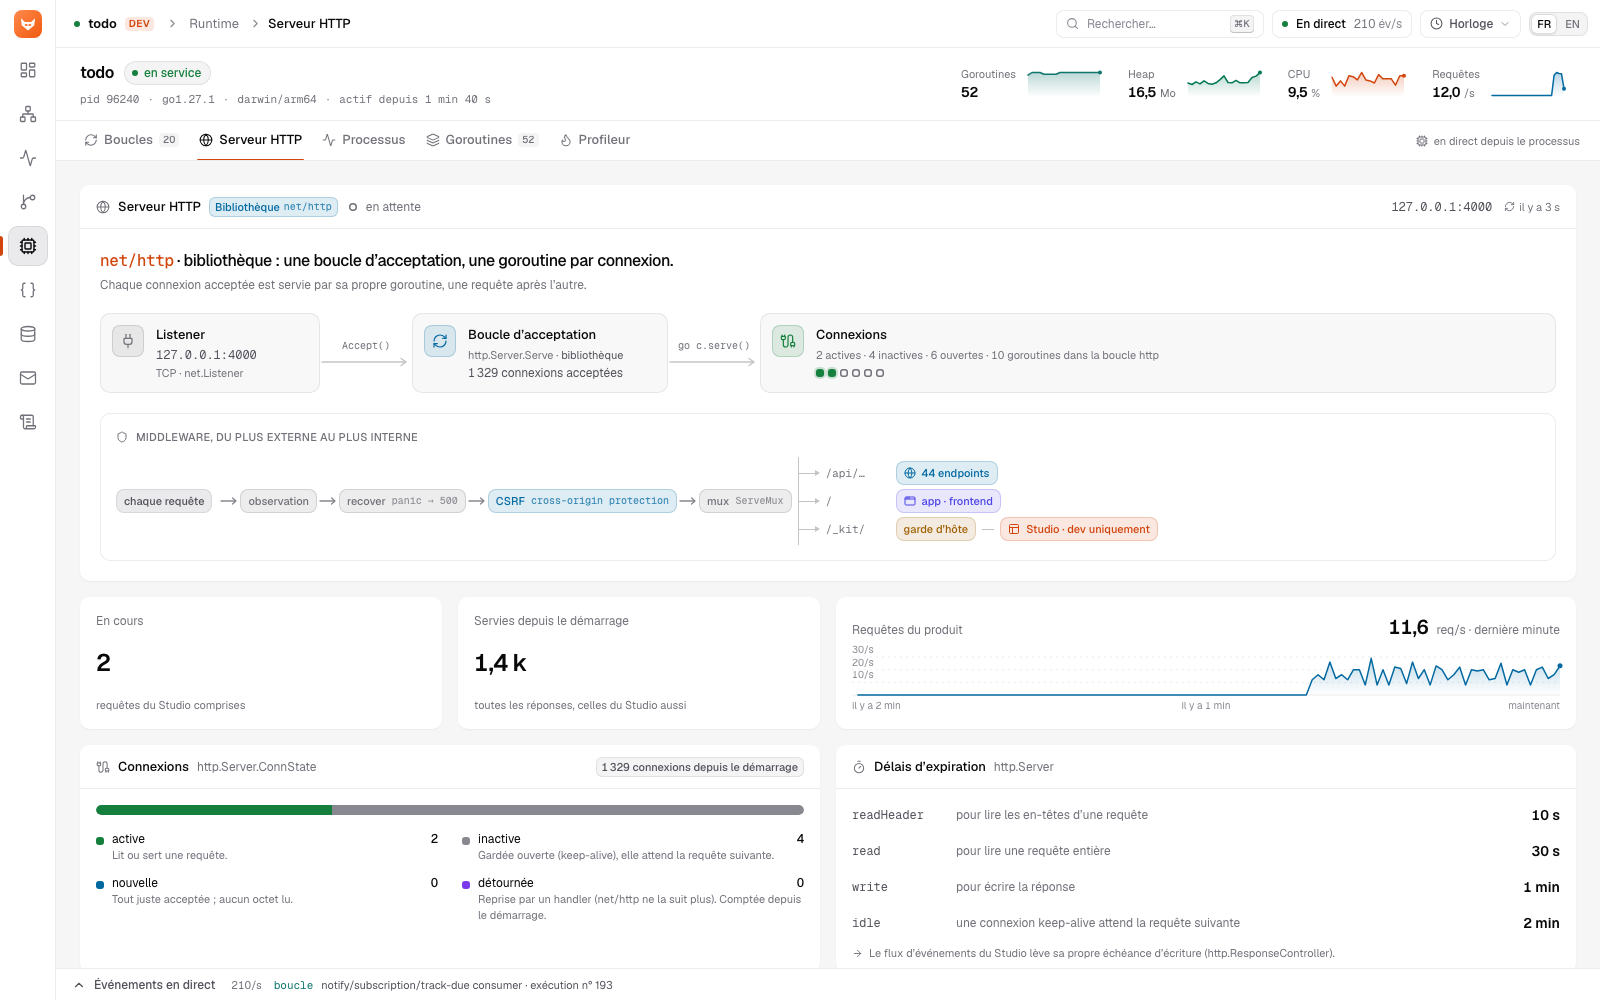
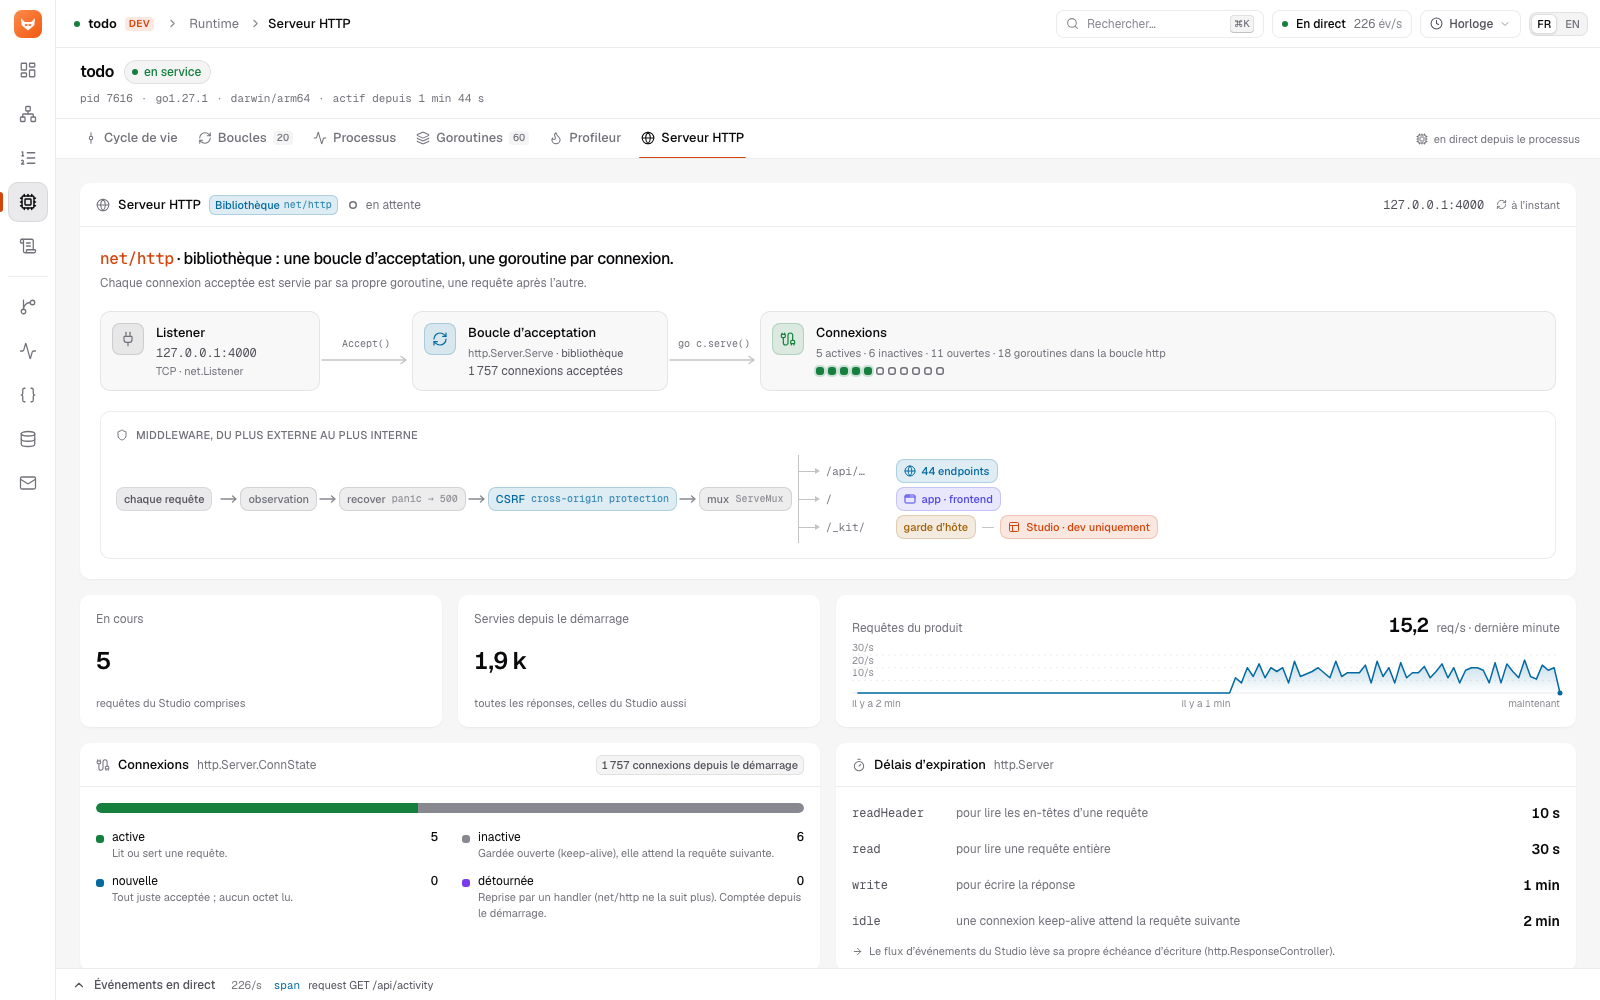
docs: the Studio as it is now
Every Studio screenshot retaken on the running app: the overview by
connectors, the containers that lead to their views, an entry's sequence
drawn from its code, the daemon's lifecycle in Runtime, the mailbox with
real mails.

diff --git a/README.md b/README.md
@@ -39,22 +39,23 @@ travels on a topic.
 
 In dev, the product serves its own diagram at `/_kit/` — the kit Studio, live:
 its context, its containers, its services and their building blocks, the code
-of each, every request as a trace, the workflows and their populations, the
-daemon's loops, and the mails it sent.
+of each, what every entry point does step by step, every request as a trace,
+the workflows and their populations, the daemon — its lifecycle, its loops,
+its HTTP server — and the mails it sent.
 
-| **Context** — who uses the product, what it talks to (C4 level 1) | **Infrastructure** — its containers, and inside the process (C4 level 2) |
+| **Overview** — the process's own numbers, then its connectors' widgets | **Context** — who uses the product, what it talks to (C4 level 1) |
 |---|---|
-| ![Context](docs/studio-context.png) | ![Infrastructure](docs/studio-infrastructure.png) |
-| **Domain** — the bounded contexts and how they talk (C4 level 3) | **Code** — what a node runs, what it touches (C4 level 4) |
-| ![Domain](docs/studio-domain.png) | ![Code](docs/studio-code.png) |
-| **Requests** — every request as a sequence of the nodes it crossed | **States** — a workflow, its population and its instances |
+| ![Overview](docs/studio-overview.png) | ![Context](docs/studio-context.png) |
+| **Infrastructure** — its containers, each leading to its view (C4 level 2) | **Domain** — the bounded contexts and how they talk (C4 level 3) |
+| ![Infrastructure](docs/studio-infrastructure.png) | ![Domain](docs/studio-domain.png) |
+| **Code** — what a node runs, what it touches (C4 level 4) | **Sequence** — what an entry point does, step by step, from its code |
+| ![Code](docs/studio-code.png) | ![Sequence](docs/studio-sequence.png) |
+| **Requests** — every request as a waterfall, a sequence, its payloads | **States** — a workflow, its population and its instances |
 | ![Requests](docs/studio-requests.png) | ![States](docs/studio-states.png) |
 | **The daemon** — its phases and its boot sequence | **Runtime** — every loop, by who wrote it: a library, kit, or the product |
 | ![Daemon](docs/studio-daemon.png) | ![Runtime](docs/studio-runtime.png) |
 | **The HTTP server** — net/http's accept loop and the middleware | **Mail** — every mail the product sent, in dev |
 | ![HTTP server](docs/studio-http.png) | ![Mail](docs/studio-mail.png) |
-| **Overview** — health, traffic, what needs a look | |
-| ![Overview](docs/studio-overview.png) | |
 
 Generated by `go run . graph -format mermaid`. Solid arrows exist by
 construction; dashed ones were found in the code by the static analysis. In
